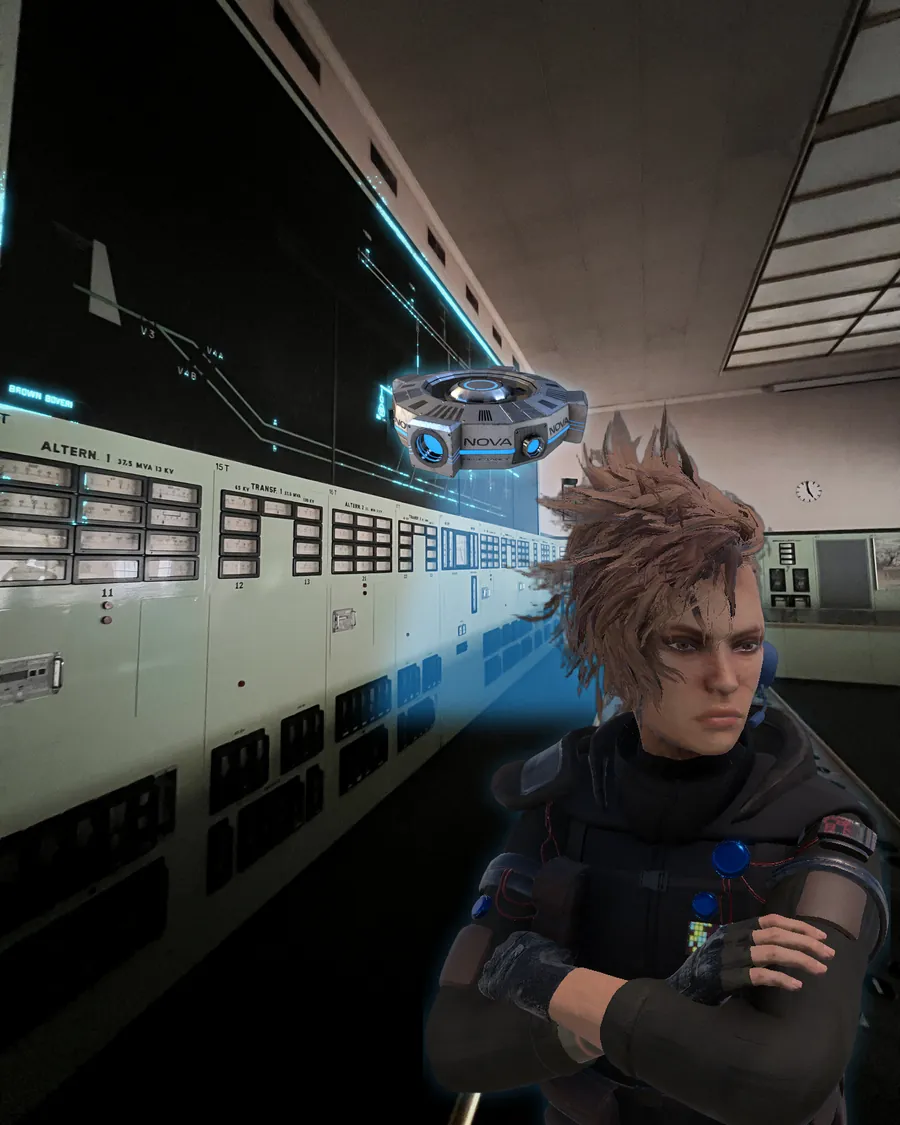
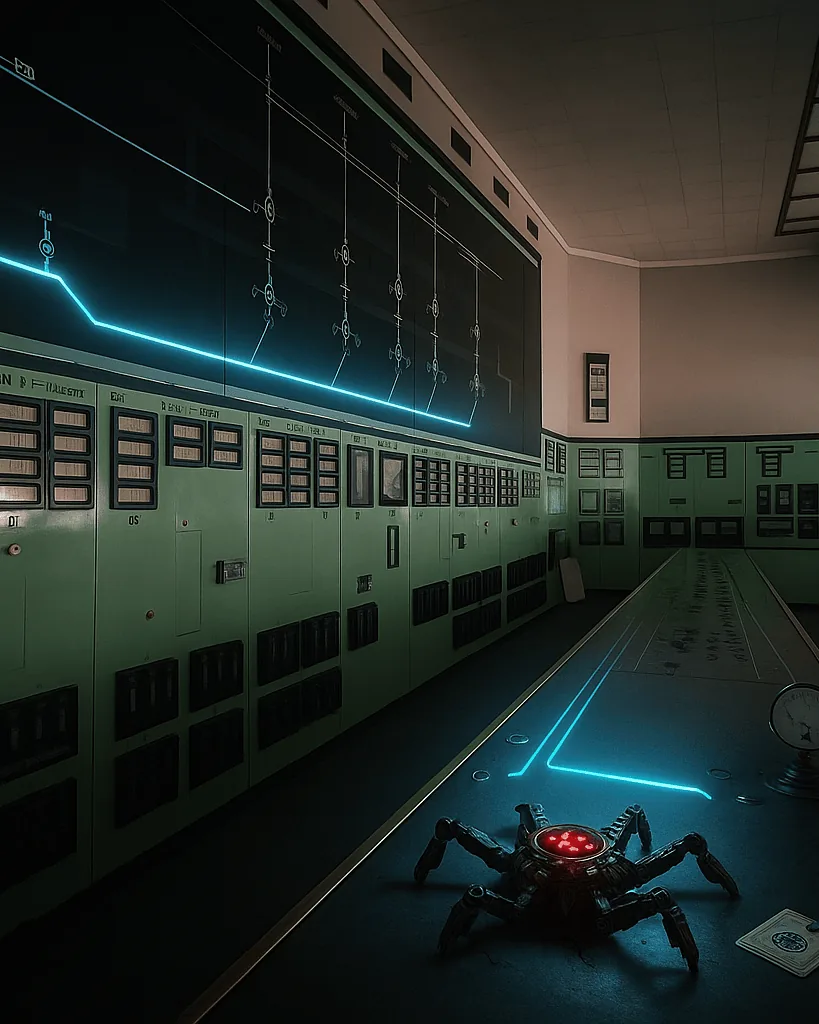
Portfolio: Novasphère Électron moved to « Prochaine sortie » subsection; text reconciled with VR Center page; official visuals; cache 29

diff --git a/index.html b/index.html
@@ -11,7 +11,7 @@
 <link rel="icon" type="image/png" sizes="512x512" href="assets/img/icon-512.png">
 <link rel="apple-touch-icon" sizes="180x180" href="assets/img/apple-touch-icon.png">
 <link rel="preload" href="assets/fonts/SpaceGrotesk-VariableFont_wght.ttf" as="font" type="font/ttf" crossorigin>
-<link rel="stylesheet" href="style.css?v=28">
+<link rel="stylesheet" href="style.css?v=29">
 </head>
 <body>
 <header class="top">
@@ -248,18 +248,6 @@
     <ul class="biz"><li><span lang="fr">Expérience immersive de 1h00</span><span lang="en">1-hour immersive experience</span></li><li><span lang="fr">Dossier pédagogique 7–8H</span><span lang="en">Teaching pack for ages 10–12 (7–8H)</span></li><li><span lang="fr">Pilote sur mesure pour écoles et institutions</span><span lang="en">Tailor-made pilot for schools and institutions</span></li></ul>
     <button class="yt" data-yt="lNVQRsvWVlU"><img loading="lazy" src="assets/img/school-field-t.webp" alt="YouTube"><span class="play">▶</span><span class="yt-l"><span lang="fr">Voir la vidéo</span><span lang="en">Watch the video</span></span></button>
   </div>
-</article><article class="prod" id="novasphere" style="--c:#3FC8FF">
-  <div class="prod-media"><div class="vid r-v nova-lead"><img loading="lazy" src="assets/img/nova-lead.webp" alt="Lyra, a game character, in the real control room of the Chandoline plant (concept view)"><span class="cv-ai"><span lang="fr">Vue d’intention • réalité mixte sur le site réel</span><span lang="en">Concept view • mixed reality on the real site</span></span></div></div>
-  <div class="prod-body">
-    <p class="tag"><span lang="fr">Réalité mixte · Éducation & énergie</span><span lang="en">Mixed reality · Education & energy</span></p>
-    <h3>Novasphère Électron</h3>
-    <p class="hook"><span lang="fr">Se former et apprendre en situation grâce à la réalité mixte.</span><span lang="en">Train and learn on site, through mixed reality.</span></p>
-    <p class="exp"><span lang="fr">Dans l’authentique salle des commandes de l’usine hydroélectrique de Chandoline, à Sion, les joueurs manipulent de vrais leviers et boutons. Grâce à des capteurs cachés, chaque geste déclenche dans leur casque des réactions en réalité augmentée : aiguilles qui s’animent, vannes qui s’ouvrent, turbines qui s’illuminent. En équipe, ils remettent la centrale en marche et comprennent, en jouant, comment elle fonctionne.</span><span lang="en">In the authentic control room of the Chandoline hydroelectric plant in Sion, players handle real levers and buttons. Hidden sensors turn every move into augmented-reality reactions in their headsets: needles come alive, valves open, turbines light up. As a team, they restart the plant and learn, through play, how it works.</span></p>
-    <div class="gallery"><button class="g" data-gal="novasphere" data-i="0" data-src="assets/img/nova-mr-desk.webp" data-fr="Vue d’intention • réalité mixte sur le site réel : mines sentinelles sur le pupitre" data-en="Concept view • mixed reality on the real site: sentinel mines on the control desk"><img loading="lazy" src="assets/img/nova-mr-desk-t.webp" alt="Concept view • mixed reality on the real site: sentinel mines on the control desk"></button><button class="g" data-gal="novasphere" data-i="1" data-src="assets/img/nova-mr-board.webp" data-fr="Vue d’intention • réalité mixte sur le site réel : circuits et zone d’interaction" data-en="Concept view • mixed reality on the real site: circuits and interaction zone"><img loading="lazy" src="assets/img/nova-mr-board-t.webp" alt="Concept view • mixed reality on the real site: circuits and interaction zone"></button><button class="g" data-gal="novasphere" data-i="2" data-src="assets/img/nova-real-desk.webp" data-fr="Photo réelle : pupitre de commande, usine de Chandoline" data-en="Real photo: control desk, Chandoline plant"><img loading="lazy" src="assets/img/nova-real-desk-t.webp" alt="Real photo: control desk, Chandoline plant"></button><button class="g" data-gal="novasphere" data-i="3" data-src="assets/img/nova-real-sync.webp" data-fr="Photo réelle : panneau de synchronisation" data-en="Real photo: synchronisation panel"><img loading="lazy" src="assets/img/nova-real-sync-t.webp" alt="Real photo: synchronisation panel"></button></div>
-    <div class="pair"><button class="g pc" data-gal="pair-nova-mr" data-i="0" data-src="assets/img/pair-novaa.webp" data-fr="Le site réel : salle des commandes, usine de Chandoline" data-en="The real site: control room, Chandoline plant"><img loading="lazy" src="assets/img/pair-novaa-t.webp" alt="The real site: control room, Chandoline plant"><span class="pl"><span lang="fr">Le site réel : salle des commandes, usine de Chandoline</span><span lang="en">The real site: control room, Chandoline plant</span></span></button><button class="g pc" data-gal="pair-nova-mr" data-i="1" data-src="assets/img/pair-novab.webp" data-fr="Vue d’intention • réalité mixte sur le site réel" data-en="Concept view • mixed reality on the real site"><img loading="lazy" src="assets/img/pair-novab-t.webp" alt="Concept view • mixed reality on the real site"><span class="pl"><span lang="fr">Vue d’intention • réalité mixte sur le site réel</span><span lang="en">Concept view • mixed reality on the real site</span></span></button></div>
-    <ul class="biz"><li><span lang="fr">Escape game scientifique en équipe de 4 à 8 personnes, dès 14 ans · 45 minutes</span><span lang="en">Science escape game for teams of 4 to 8, ages 14+ · 45 minutes</span></li><li><span lang="fr">Défis coopératifs : recomposer un générateur, brancher des batteries, exciter les bobines, synchroniser les phases</span><span lang="en">Cooperative challenges: rebuild a generator, connect batteries, excite the coils, synchronise the phases</span></li><li><span lang="fr">Pas de game over sur les défis techniques : l’erreur devient apprentissage, en coopération</span><span lang="en">No game over on technical challenges: mistakes become learning, through teamwork</span></li><li><span lang="fr">Jeu multijoueur développé sous Unity · avec le soutien de la Ville de Sion, de conexkt et de Wissenschaft bewegen (Gebert Rüf Stiftung)</span><span lang="en">Multiplayer game built in Unity · supported by the City of Sion, conexkt and Wissenschaft bewegen (Gebert Rüf Stiftung)</span></li></ul>
-    
-  </div>
 </article><article class="prod" id="escapelife" style="--c:#197A72">
   <div class="prod-media"><div class="vid r-v"><video muted loop playsinline preload="none" poster="assets/img/poster-escapelife-feu.webp?v=4" data-src="assets/vid/escapelife-feu.mp4?v=4"></video></div></div>
   <div class="prod-body">
@@ -273,6 +261,23 @@
     <button class="yt" data-yt="ILMQmgUio9o"><img loading="lazy" src="assets/img/el-yt-t.webp" alt="YouTube"><span class="play">▶</span><span class="yt-l"><span lang="fr">Voir la vidéo</span><span lang="en">Watch the video</span></span></button><p class="el-links"><a href="https://www.escapelife.ch/" target="_blank" rel="noopener">escapelife.ch ↗</a><a href="https://www.instagram.com/escapelife.ch/" target="_blank" rel="noopener">Instagram @escapelife.ch ↗</a></p>
   </div>
 </article>
+    <div class="soon" id="prochaine-sortie">
+      <p class="tag"><span lang="fr">Prochaine sortie · Éducation</span><span lang="en">Coming soon · Education</span></p>
+      <h2><span lang="fr">Prochaine sortie.</span><span lang="en">Coming soon.</span></h2>
+      <article class="prod" id="novasphere" style="--c:#3FC8FF">
+  <div class="prod-media"><div class="vid r-v nova-lead"><img loading="lazy" src="assets/img/nova-lead.webp" alt="The Chandoline control room with a glowing circuit and a spider robot (AI-generated concept view)"><span class="cv-ai"><span lang="fr">Visuel du jeu · vue d’intention générée par IA</span><span lang="en">Game visual · AI-generated concept view</span></span></div></div>
+  <div class="prod-body">
+    <p class="tag"><span lang="fr">Réalité mixte · Éducation & énergie</span><span lang="en">Mixed reality · Education & energy</span></p>
+    <h3>Novasphère Électron</h3>
+    <p class="hook"><span lang="fr">Se former et apprendre en situation grâce à la réalité mixte.</span><span lang="en">Train and learn on site, through mixed reality.</span></p>
+    <p class="exp"><span lang="fr">Une expérience de jeu qui fusionne environnement réel et univers numérique, dans la véritable salle des commandes de l’usine hydroélectrique de Chandoline, à Sion. Équipés d’un casque de réalité mixte, les joueurs voient la salle se transformer autour d’eux : personnages, hologrammes, machines, interfaces énergétiques et menaces virtuelles apparaissent dans l’espace physique. Ils se déplacent librement, communiquent en équipe et interagissent avec les vraies commandes de l’usine. Leur mission : remettre l’eau en circulation et relancer l’usine en 45 minutes, tout en défendant les installations. Une aventure de science-fiction sur le thème de l’énergie et de l’hydroélectricité, pour comprendre en jouant le fonctionnement d’une centrale.</span><span lang="en">A game that merges the real environment with a digital world, in the actual control room of the Chandoline hydroelectric plant in Sion. Wearing mixed reality headsets, players watch the room transform around them: characters, holograms, machines, energy interfaces and virtual threats appear right in the physical space. They move freely, talk to their team and interact with the plant’s real controls. Their mission: get the water flowing again and restart the plant within 45 minutes, while defending the installations. A science-fiction adventure about energy and hydropower that shows, through play, how a power plant works.</span></p>
+    <div class="gallery"><button class="g" data-gal="novasphere" data-i="0" data-src="assets/img/nova-mr-lyra.webp" data-fr="Vue d’intention • réalité mixte sur le site réel : Lyra et le Ghost Beamer" data-en="Concept view • mixed reality on the real site: Lyra and the Ghost Beamer"><img loading="lazy" src="assets/img/nova-mr-lyra-t.webp" alt="Concept view • mixed reality on the real site: Lyra and the Ghost Beamer"></button><button class="g" data-gal="novasphere" data-i="1" data-src="assets/img/nova-usine.webp" data-fr="L’usine de Chandoline, Sion" data-en="The Chandoline plant, Sion"><img loading="lazy" src="assets/img/nova-usine-t.webp" alt="The Chandoline plant, Sion"></button></div>
+    <div class="pair"><button class="g pc" data-gal="pair-nova-mr" data-i="0" data-src="assets/img/pair-novaa.webp" data-fr="Le site réel : salle des commandes, usine de Chandoline" data-en="The real site: control room, Chandoline plant"><img loading="lazy" src="assets/img/pair-novaa-t.webp" alt="The real site: control room, Chandoline plant"><span class="pl"><span lang="fr">Le site réel : salle des commandes, usine de Chandoline</span><span lang="en">The real site: control room, Chandoline plant</span></span></button><button class="g pc" data-gal="pair-nova-mr" data-i="1" data-src="assets/img/pair-novab.webp" data-fr="Vue d’intention • réalité mixte sur le site réel" data-en="Concept view • mixed reality on the real site"><img loading="lazy" src="assets/img/pair-novab-t.webp" alt="Concept view • mixed reality on the real site"><span class="pl"><span lang="fr">Vue d’intention • réalité mixte sur le site réel</span><span lang="en">Concept view • mixed reality on the real site</span></span></button></div>
+    <ul class="biz"><li><span lang="fr">45 minutes de jeu · de 2 à 8 joueurs par session privative · dès 12 ans · en français</span><span lang="en">45 minutes of play · 2 to 8 players per private session · ages 12+ · in French</span></li><li><span lang="fr">Sur place, à l’usine de Chandoline, rue de la Dixence 76, à Sion</span><span lang="en">On site at the Chandoline plant, Rue de la Dixence 76, Sion</span></li><li><span lang="fr">Défis coopératifs : recomposer un générateur, brancher des batteries, exciter les bobines, synchroniser les phases</span><span lang="en">Cooperative challenges: rebuild a generator, connect batteries, excite the coils, synchronise the phases</span></li><li><span lang="fr">Pas de game over sur les défis techniques : l’erreur devient apprentissage, en coopération</span><span lang="en">No game over on technical challenges: mistakes become learning, through teamwork</span></li><li><span lang="fr">Sorties scolaires soutenues par Etincelle de Culture</span><span lang="en">School trips supported by Etincelle de Culture</span></li><li><span lang="fr">Une expérience XR Génie Culturel, en collaboration avec Conexkt, avec le soutien de la fondation Gebert Rüf Stiftung et de la Ville de Sion</span><span lang="en">A Génie Culturel XR experience, in collaboration with Conexkt, supported by the Gebert Rüf Stiftung foundation and the City of Sion</span></li></ul>
+    
+  </div>
+</article>
+    </div>
   </div>
 </section>
 
@@ -357,5 +362,5 @@
 <footer><img src="assets/img/logo-gc-white.png" alt="Génie Culturel"><span>Swiss designed by Génie Culturel · Sion, Valais</span></footer>
 
 <div class="lb" hidden><button class="lb-x" aria-label="Close">×</button><button class="lb-p" aria-label="Previous">‹</button><figure><img alt=""><figcaption></figcaption></figure><button class="lb-n" aria-label="Next">›</button></div>
-<script src="app.js?v=28"></script>
+<script src="app.js?v=29"></script>
 </body></html>

diff --git a/chez-vous/chronoscope-xr.html b/chez-vous/chronoscope-xr.html
@@ -11,7 +11,7 @@
 <link rel="icon" type="image/png" sizes="512x512" href="../assets/img/icon-512.png">
 <link rel="apple-touch-icon" sizes="180x180" href="../assets/img/apple-touch-icon.png">
 <link rel="preload" href="../assets/fonts/SpaceGrotesk-VariableFont_wght.ttf" as="font" type="font/ttf" crossorigin>
-<link rel="stylesheet" href="../style.css?v=28">
+<link rel="stylesheet" href="../style.css?v=29">
 </head>
 <body class="cvpage">
 <header class="top">
@@ -168,5 +168,5 @@
 </main>
 <footer><img src="../assets/img/logo-gc-white.png" alt="Génie Culturel"><span>Swiss designed by Génie Culturel · Sion, Valais</span></footer>
 <div class="lb" hidden><button class="lb-x" aria-label="Close">×</button><button class="lb-p" aria-label="Previous">‹</button><figure><img alt=""><figcaption></figcaption></figure><button class="lb-n" aria-label="Next">›</button></div>
-<script src="../app.js?v=28"></script>
+<script src="../app.js?v=29"></script>
 </body></html>

diff --git a/chez-vous/europe-memoires-vivantes.html b/chez-vous/europe-memoires-vivantes.html
@@ -11,7 +11,7 @@
 <link rel="icon" type="image/png" sizes="512x512" href="../assets/img/icon-512.png">
 <link rel="apple-touch-icon" sizes="180x180" href="../assets/img/apple-touch-icon.png">
 <link rel="preload" href="../assets/fonts/SpaceGrotesk-VariableFont_wght.ttf" as="font" type="font/ttf" crossorigin>
-<link rel="stylesheet" href="../style.css?v=28">
+<link rel="stylesheet" href="../style.css?v=29">
 </head>
 <body class="cvpage">
 <header class="top">
@@ -97,5 +97,5 @@
 </main>
 <footer><img src="../assets/img/logo-gc-white.png" alt="Génie Culturel"><span>Swiss designed by Génie Culturel · Sion, Valais</span></footer>
 <div class="lb" hidden><button class="lb-x" aria-label="Close">×</button><button class="lb-p" aria-label="Previous">‹</button><figure><img alt=""><figcaption></figcaption></figure><button class="lb-n" aria-label="Next">›</button></div>
-<script src="../app.js?v=28"></script>
+<script src="../app.js?v=29"></script>
 </body></html>

diff --git a/style.css b/style.css
@@ -380,3 +380,6 @@ dialog.nl-sender .nl-x{color:#fff;border-color:#444;background:#0d0d0d}
 .nl-alt{font-size:12px;color:#999;text-align:center;margin-top:6px}.nl-alt a{color:#fff}
 
 .nova-lead img{width:100%;height:100%;object-fit:cover;display:block}
+.soon{margin-top:48px;padding-top:44px;border-top:1px solid #333}
+.soon > .tag{--c:#3FC8FF}
+.soon .prod{border-top:0}
